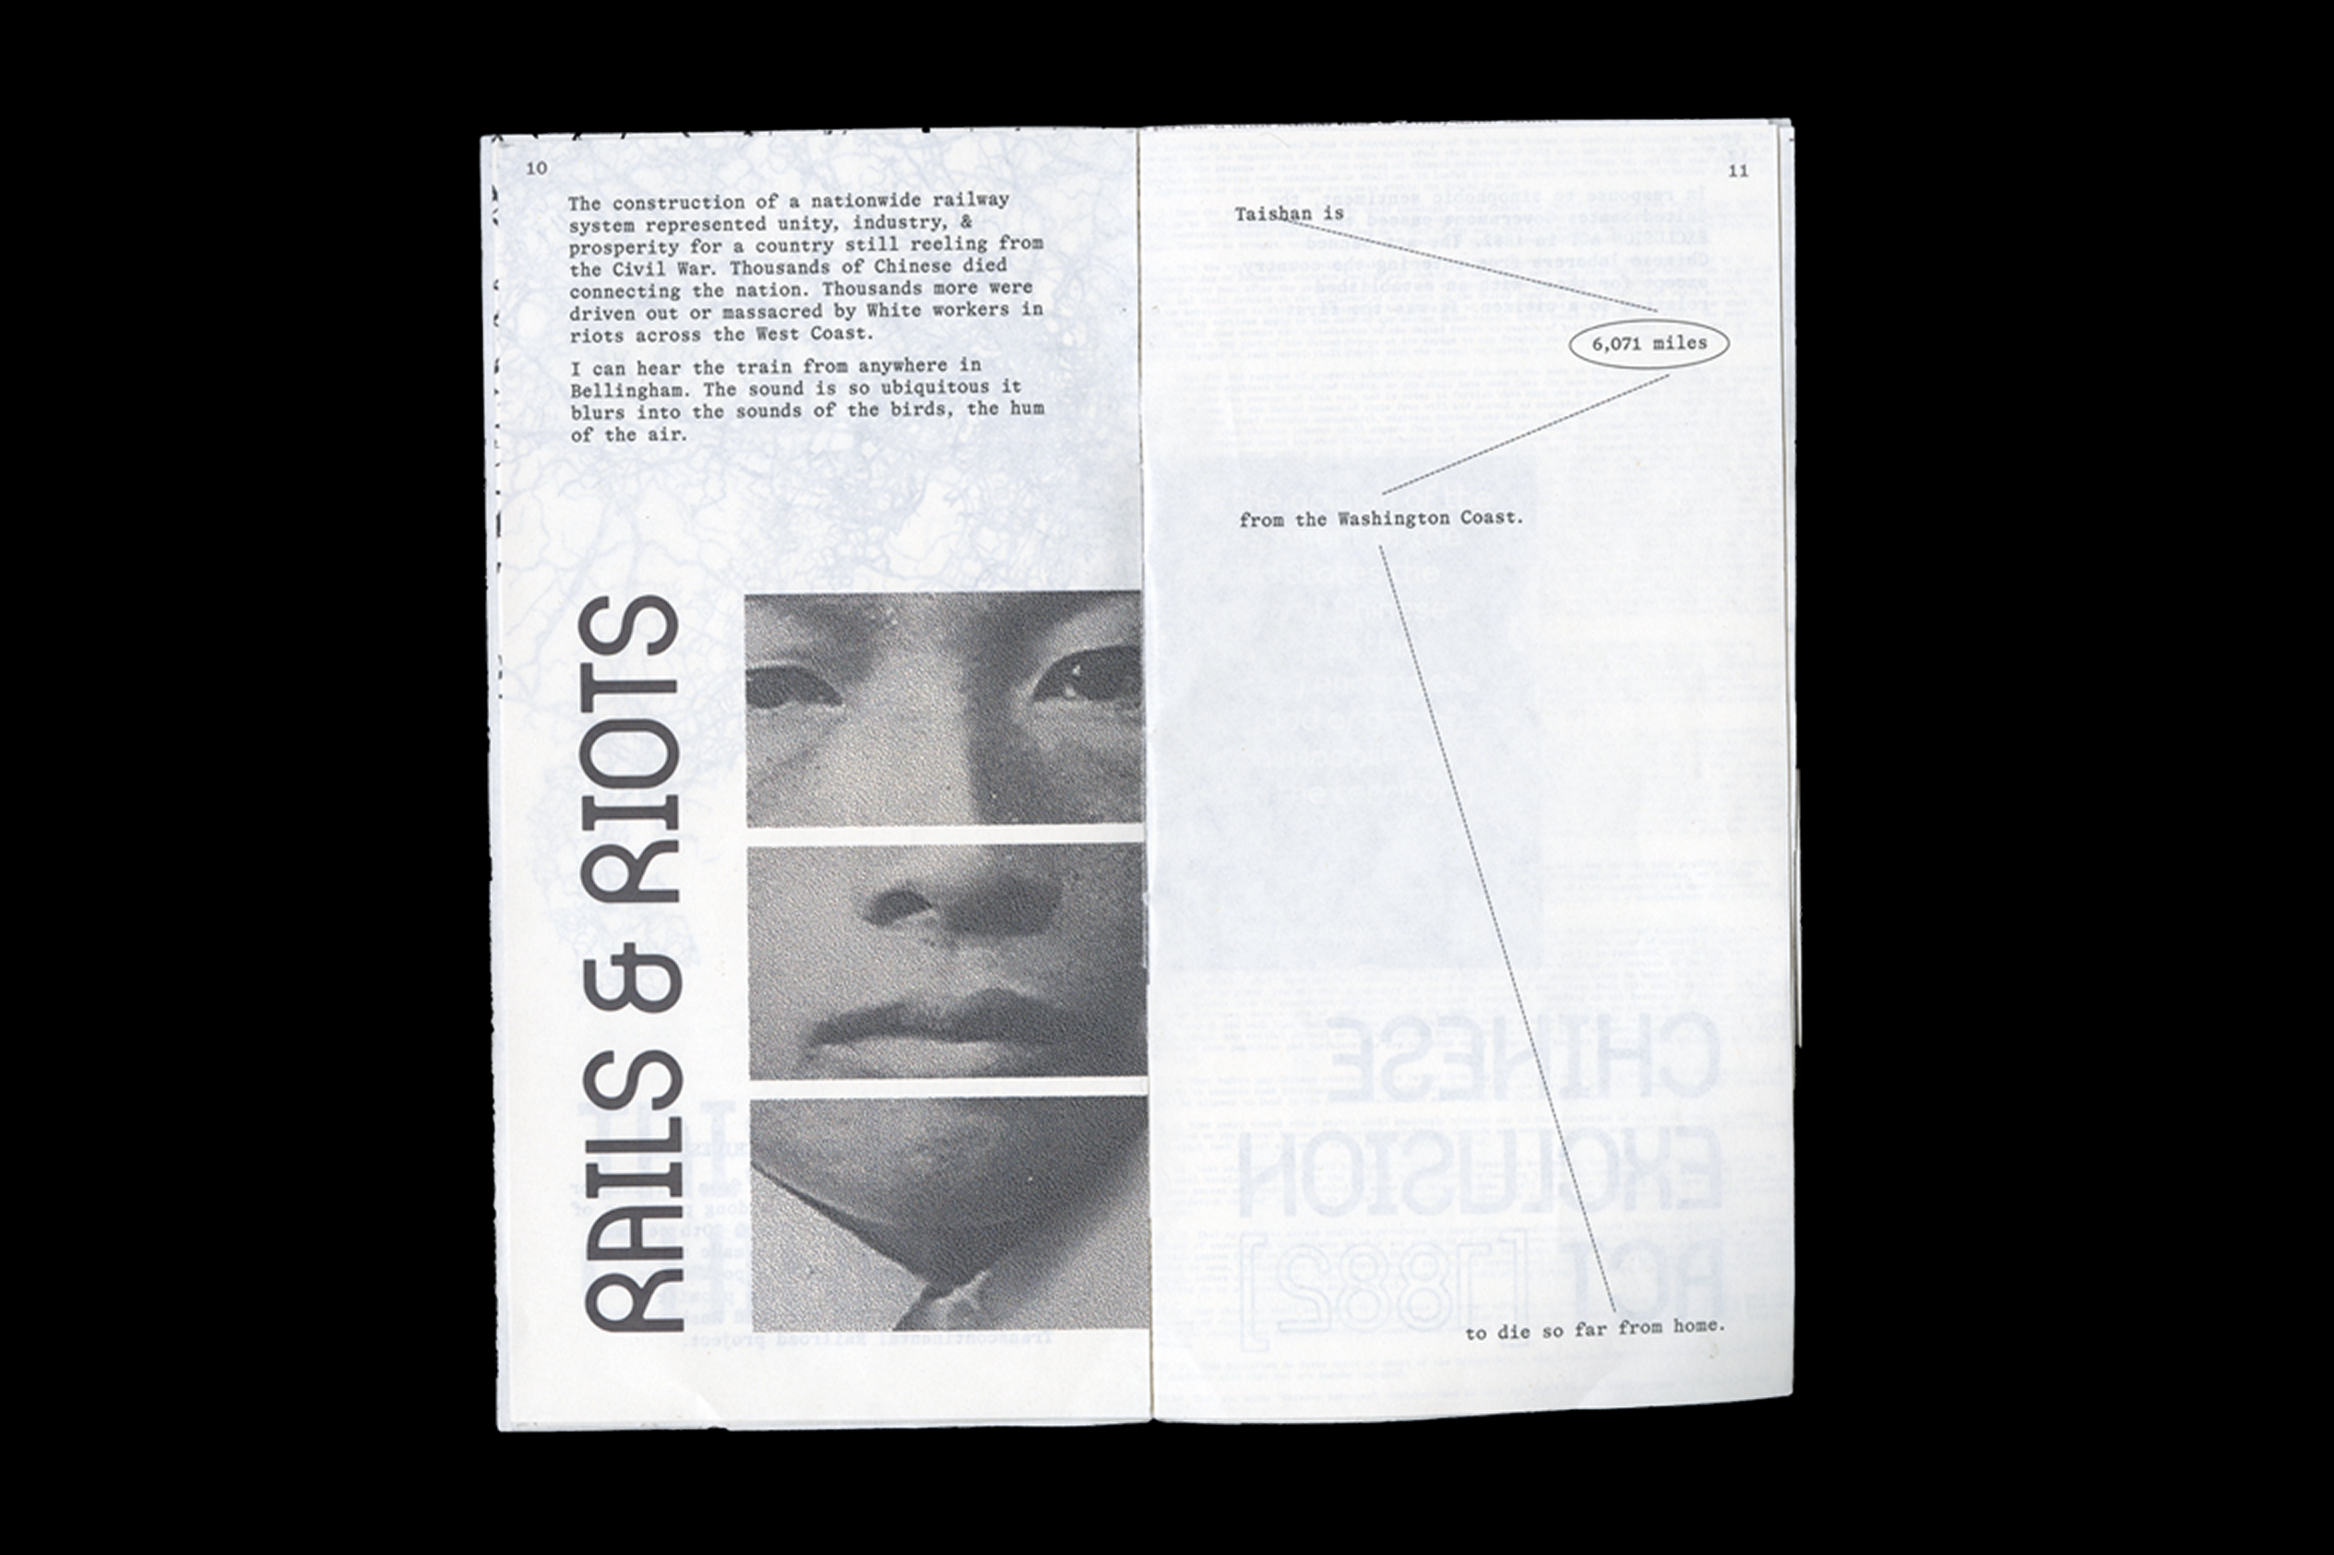
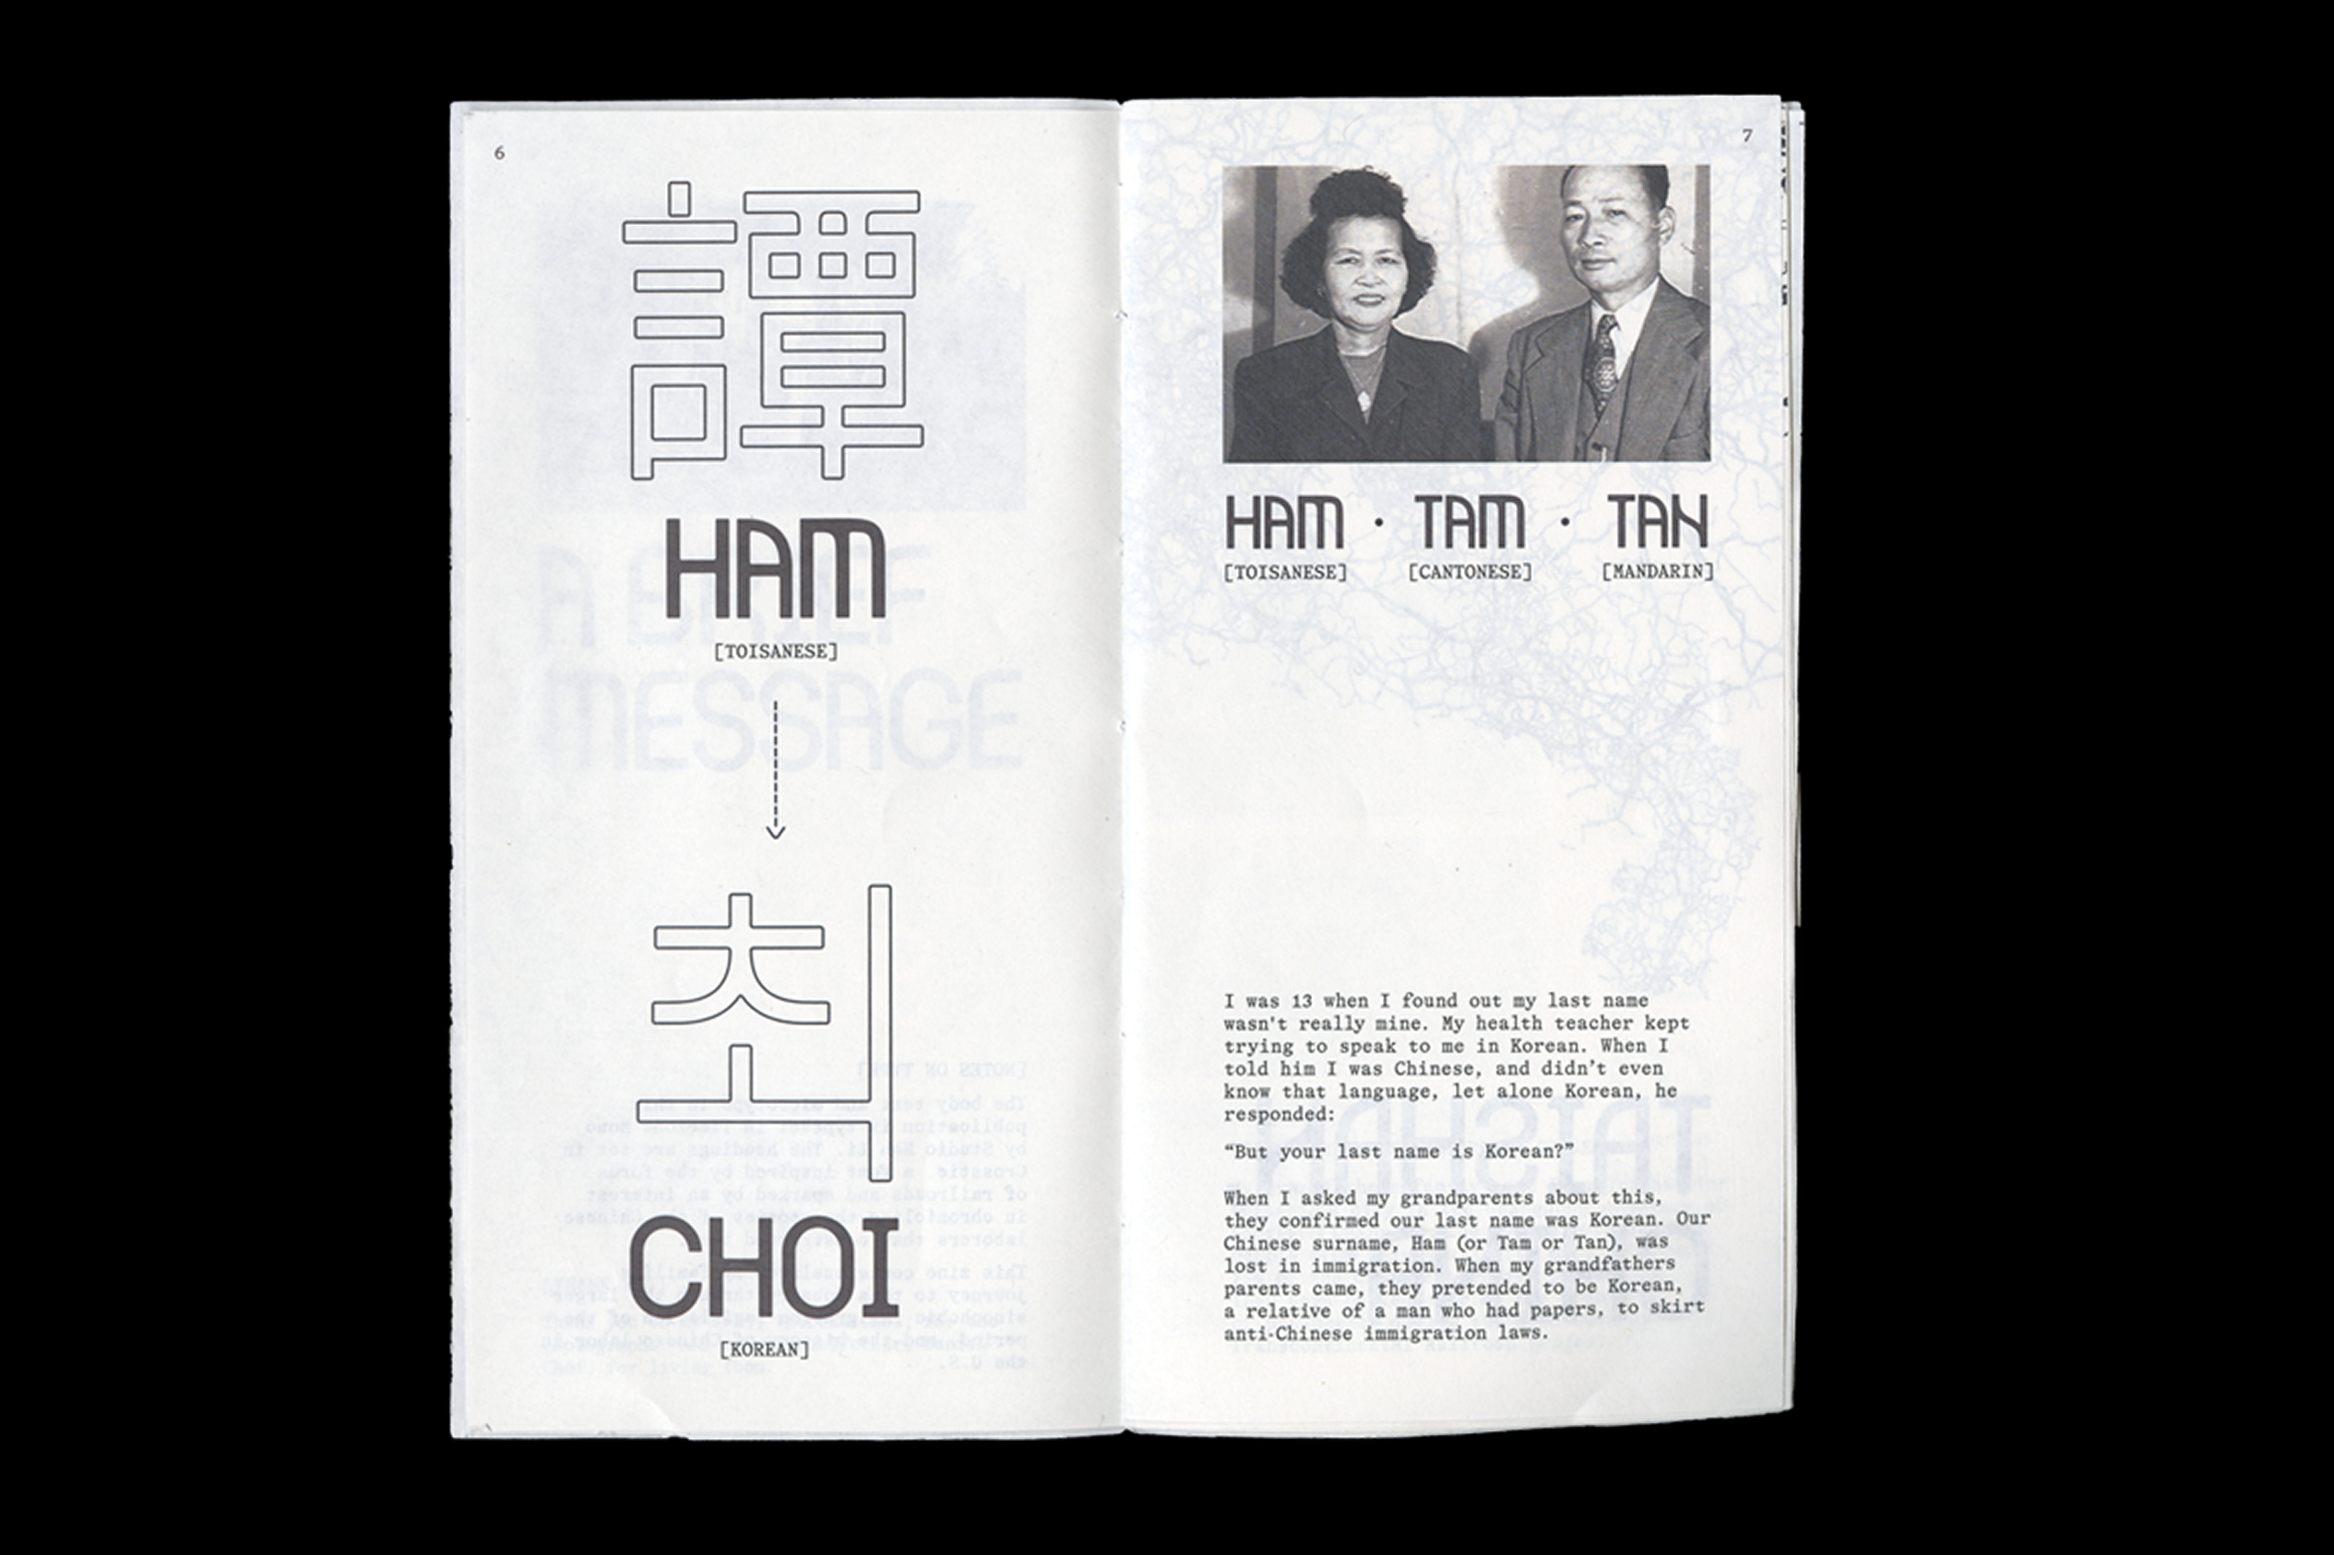
stuff

Changed region(s): [[0.1874, 0.0617, 0.7806, 0.9253]]

diff --git a/crosstie.html b/crosstie.html
@@ -82,11 +82,13 @@
                 </div>
                 <div class="description">
                     <p>
-                        CROSSTIE is a display typeface inspired by the forms made by railroads from above, and the
-                        history of labor surrounding their construction. Conceptualized in Western Washington, where the
-                        train can be heard in all directions, it confronts the history violent of expulsion faced by the
-                        Chinese immigrants who built them. It's modern construction commentates on our experience of
-                        time, exploring how an immigration act passed in 1848 is felt by immigrants in 2026. The
+                        CROSSTIE is a display typeface that draws from the forms of railroads, and speaks to
+                        immigrant laborers who built them. Conceptualized in Western Washington, where the
+                        train can be heard in all directions, it confronts the history violent of expulsion faced by
+                        Chinese communities across the West Coat. It's modern construction commentates on resilience and memory, 
+                        exploring how a legislation like the Chinese Exclusion Act echoes in anti-immigration politics today. The typeface
+                        is demonstrated through a publication, Paper Sons, wherein photos
+                        sourced from a family archive track the history of Chinese immigration through the story of one family. The
                         typeface
                         was created in Glyphs Mini, it features a full upper & lowercase character set, numbers, and
                         built out punctuation.
@@ -111,11 +113,13 @@
                     <img src="IMAGES/Crosstie/Crosstie_Book.gif">
         
                     <img src="IMAGES/Crosstie/Frame 30.png">
-                    <img src="IMAGES/Crosstie/Frame 19.png">
                     <img src="IMAGES/Crosstie/Frame 27.png">
+                    <img src="IMAGES/Crosstie/flipout.gif">
+                    <img src="IMAGES/Crosstie/Frame 19.png">
+                    <img src="IMAGES/Crosstie/italicbold.png">
                     <img src="IMAGES/Crosstie/Frame 25.png">
                     <img src="IMAGES/Crosstie/Frame 32.png">
-                    <img src="IMAGES/Crosstie/Frame 26.png">
+                    <img src="IMAGES/Crosstie/Crosstie Overview.png">
                 </div>
             </div>
     </div>
